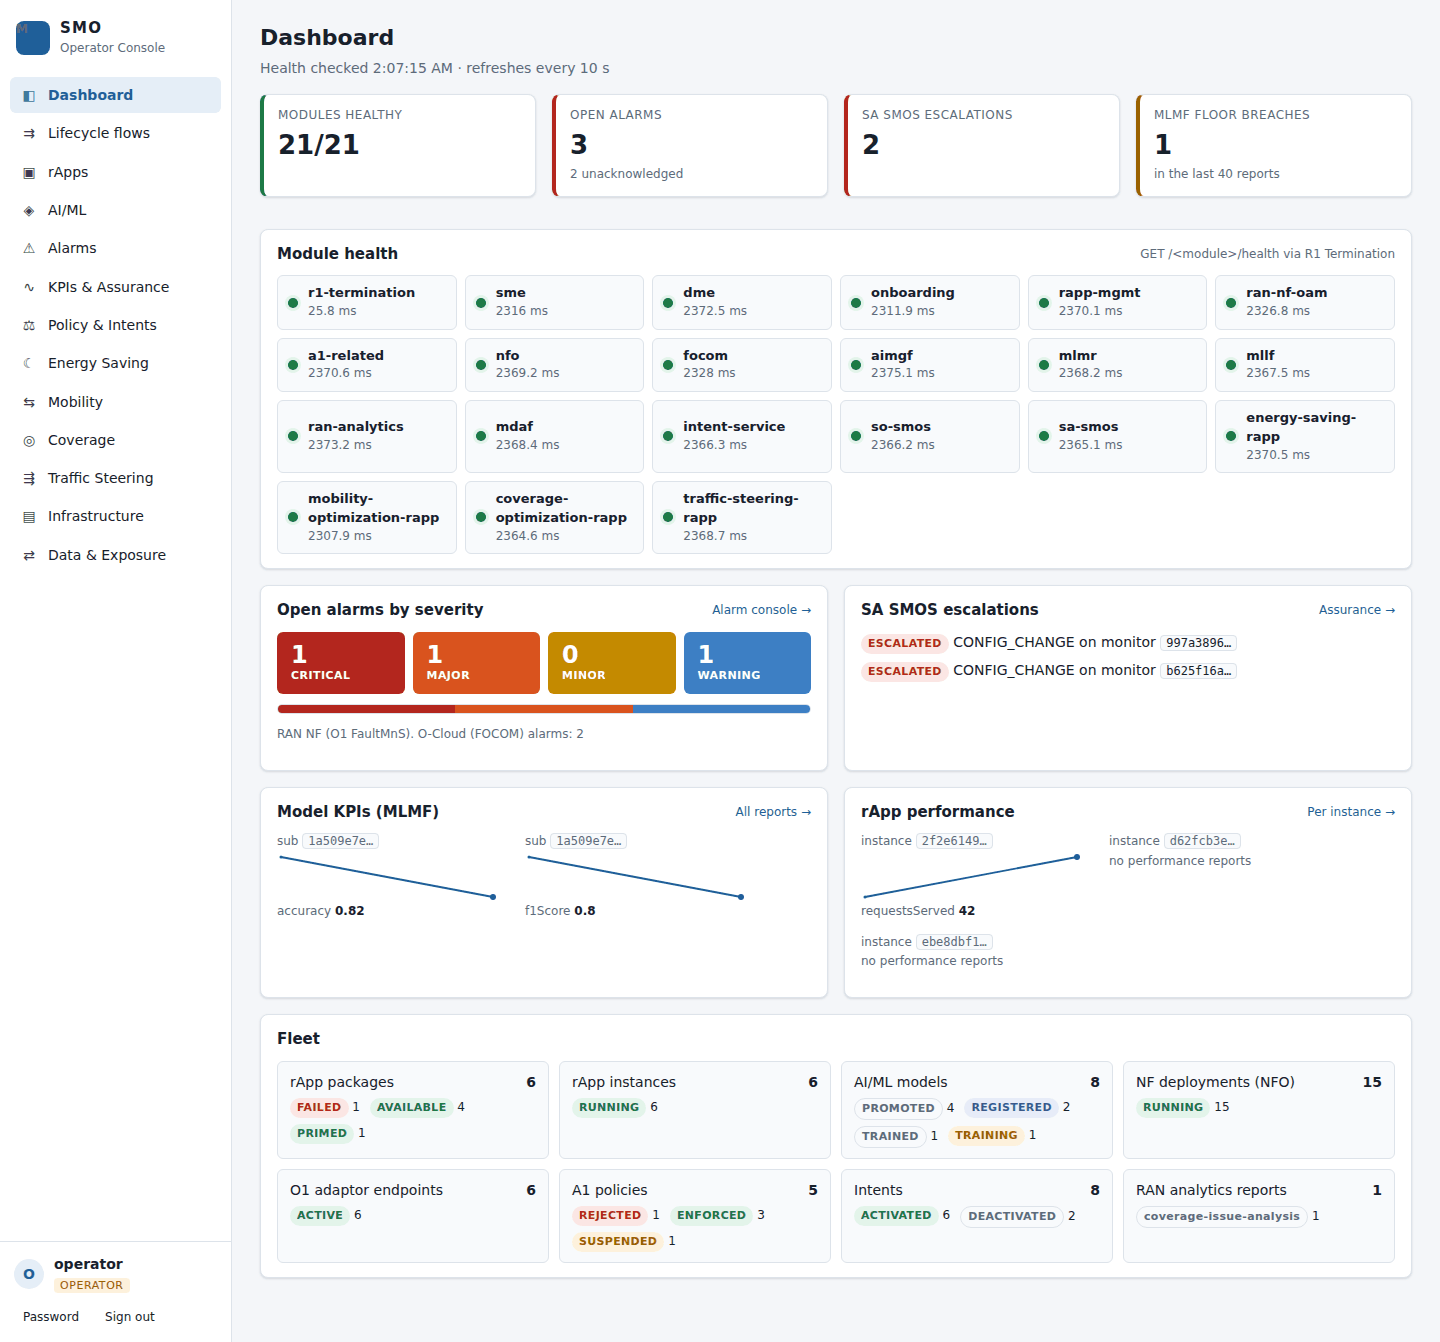
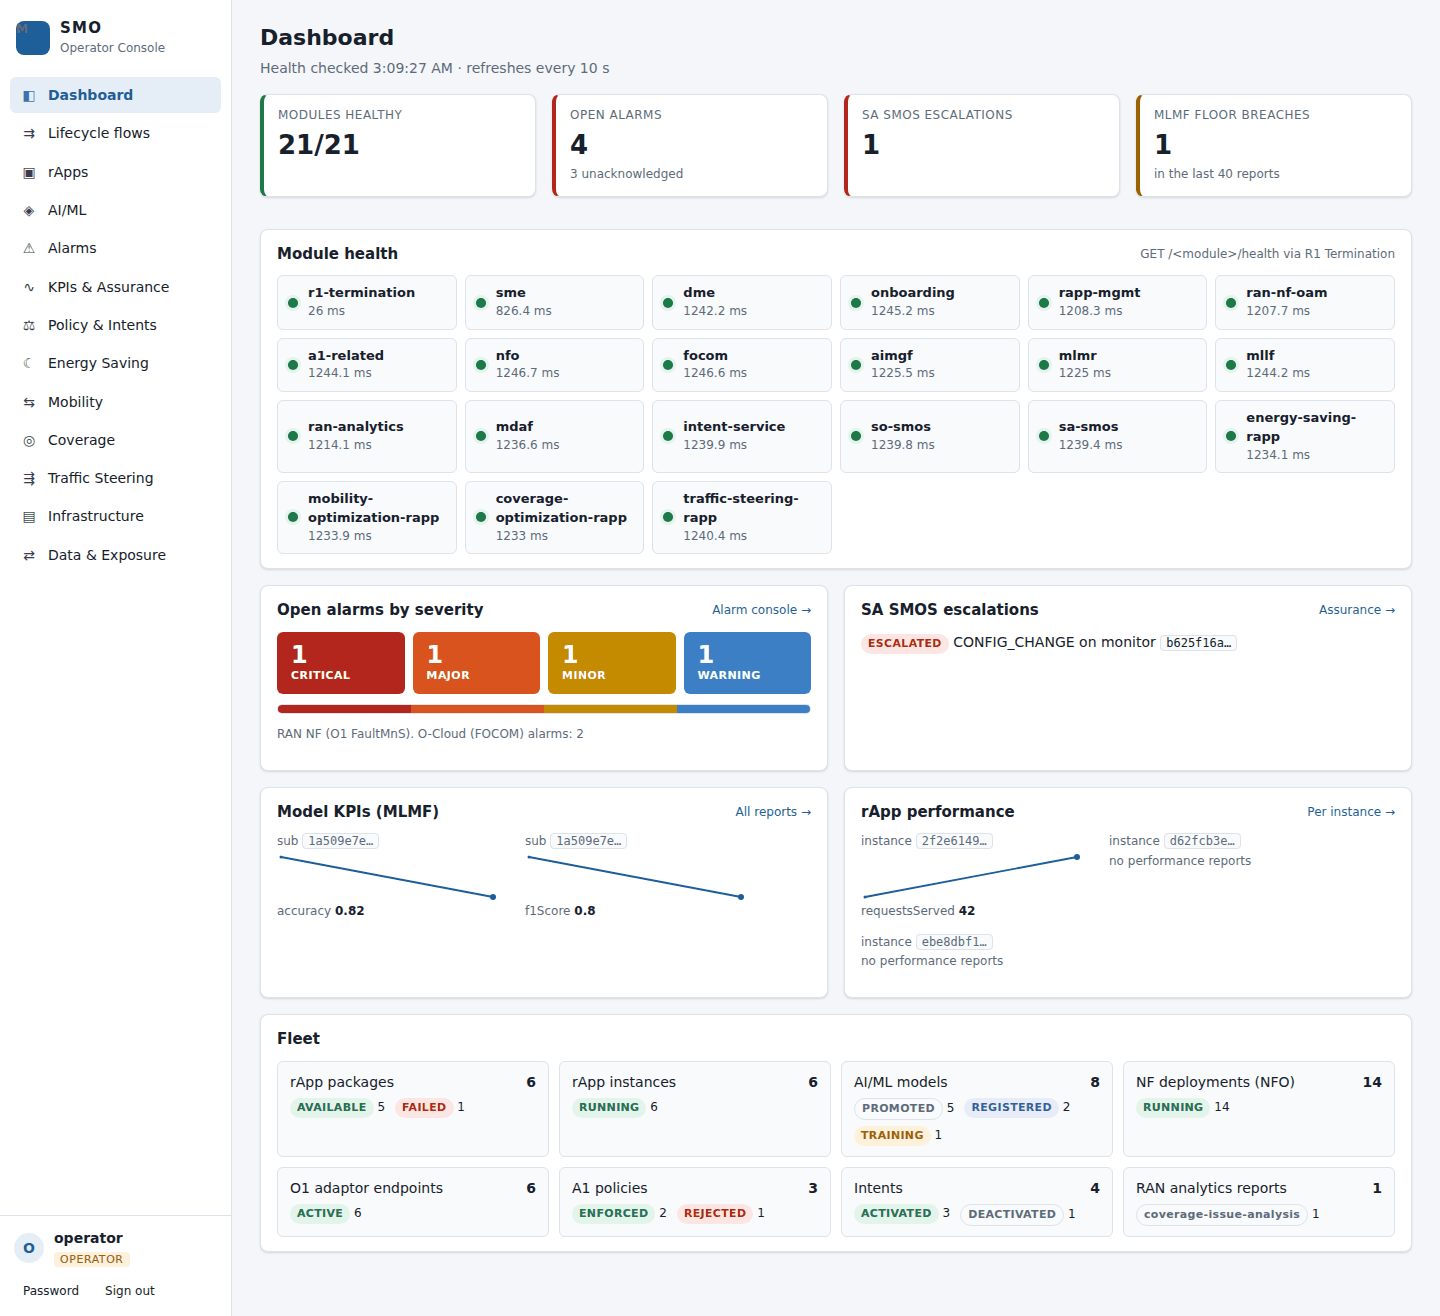
Add the missing GUI lifecycle screenshots; recapture the dashboards
Adds 33 screenshots: rApp upgrade, rollback, deprecate and delete; the model
governance gates through to a running runtime and inference; register
monitor, data job, CAPIF subscription, A1 service unregister, intent report,
inventory subscription, O1 health discovery, a RESTCONF write, and the
account lockout. Recaptures the three dashboards with the services started
without the sandbox's proxy variables, which had inflated module-health
latency. The README tables list every new shot.

Claude-Session: https://claude.ai/code/session_01H3VFBNwq3KascYw2zGafDC

diff --git a/smo/gui/README.md b/smo/gui/README.md
@@ -150,7 +150,8 @@ Captured by a Playwright walk-through of the full stack (every module, R1
 Termination, the BFF and the GUI, on Postgres), starting from an empty
 database. The state on screen is live: it was produced through the module
 APIs, the four reference-rApp demo scripts (`samples/*/demo.py`) and the GUI
-itself, signed in as `admin` at 1440 px wide, except the role views.
+itself, signed in as `admin` at 1440 px wide, except the role views. The
+walk-through finished with no 5xx responses from the GUI's own API.
 
 Lifecycle (LCM) screens are in the order the lifecycle runs, so a module's
 rows read as a story: the state before an action, then the state after it.
@@ -161,6 +162,7 @@ rows read as a story: the state before an action, then the state after it.
 |---|---|
 | [Sign in](docs/screenshots/generic/login.png) | The only page reachable signed out |
 | [Failed sign-in](docs/screenshots/generic/login-failed.png) | Wrong password: a generic error that does not say which half was wrong; 5 failures lock the account for 5 minutes |
+| [Account locked](docs/screenshots/generic/login-locked.png) | After 5 failed attempts the account is locked for 5 minutes; the message does not say whether the user exists |
 | [Dashboard](docs/screenshots/pages/dashboard.png) | Module health for every service, open alarms by severity, SA SMOS escalations, model KPIs, rApp performance and fleet counts |
 | [Lifecycle flows (list)](docs/screenshots/pages/flows.png) | The ten call-flow journeys; pick one, then the entity to follow |
 | [Change password](docs/screenshots/generic/change-password-dialog.png) | Any signed-in user, from the sidebar footer |
@@ -195,6 +197,8 @@ Each table: the page's tabs first, then the lifecycle screens for that module.
 | [Packages (tab)](docs/screenshots/pages/rapps-packages.png) | Onboarded packages with state, signature and NF descriptor; one FAILED, one PRIMED, the rest AVAILABLE |
 | [Instances (tab)](docs/screenshots/pages/rapps-instances.png) | rApp instances with state and autonomy mode (SHADOW, ASSIST, AUTONOMOUS) |
 | [Package: failed validation](docs/screenshots/lcm/rapps-package-failed.png) | A package that never became AVAILABLE; nothing to deploy, only Delete |
+| [Onboard a package](docs/screenshots/lcm/rapps-onboard-form.png) | The CSAR location form, filled but not submitted |
+| [Package: onboarded](docs/screenshots/lcm/rapps-package-onboarded.png) | A second version of a package, AVAILABLE after Onboarding validated it |
 | [Package: AVAILABLE](docs/screenshots/lcm/rapps-package-drawer.png) | TOSCA / ASD descriptor, SME declarations, artifacts, usage registrations, Prime |
 | [Package: PRIMED, deprime blocked](docs/screenshots/lcm/rapps-package-primed-deprime-blocked.png) | Deprime is disabled while two usage registrations are active, with the reason |
 | [Deploy dialog](docs/screenshots/lcm/rapps-deploy-dialog.png) | Instance configuration and autonomy mode, fixed for the instance's lifetime |
@@ -203,9 +207,16 @@ Each table: the page's tabs first, then the lifecycle screens for that module.
 | [Instance: recovering](docs/screenshots/lcm/rapps-instance-recovering.png) | Recover re-enters DEPLOYING until the rApp bootstraps again |
 | [Instance: RUNNING again](docs/screenshots/lcm/rapps-instance-recovered.png) | Marked bootstrapped; the fault history remains |
 | [Upgrade dialog](docs/screenshots/lcm/rapps-upgrade-dialog.png) | Pick an AVAILABLE package; the upgrade runs as two rows and is resolved success / failure |
+| [Upgrade: UPGRADING](docs/screenshots/lcm/rapps-upgrade-in-progress.png) | The instance waits for the replacement; resolve with Upgrade succeeded or Upgrade failed |
+| [Upgrade: replacement DEPLOYING](docs/screenshots/lcm/rapps-upgrade-replacement-deploying.png) | The replacement instance on the new package, awaiting its bootstrap |
+| [Upgrade: committed](docs/screenshots/lcm/rapps-upgrade-committed.png) | The replacement is RUNNING, the version history shows the UPGRADE and Roll back is offered |
+| [Rollback: UPGRADING](docs/screenshots/lcm/rapps-rollback-in-progress.png) | Roll back starts a replacement on the previous package and configuration |
+| [Rollback: committed](docs/screenshots/lcm/rapps-rollback-committed.png) | Version history now shows ROLLBACK, and the upgrade it undid is marked rolled back |
 | [Instance: UNDEPLOYED](docs/screenshots/lcm/rapps-instance-terminated.png) | After Terminate: NFO teardown and usage stop recorded under *Last teardown* |
 | [Package: PRIMED, usage released](docs/screenshots/lcm/rapps-package-primed-usage-released.png) | Both usage registrations stopped, so Deprime is enabled |
 | [Package: AVAILABLE again](docs/screenshots/lcm/rapps-package-deprimed.png) | Deprime succeeded (PRIMED → DEPRIMING → AVAILABLE) |
+| [Package: DEPRECATED](docs/screenshots/lcm/rapps-package-deprecated.png) | After Deprecate: no new instances; Restore and Delete remain |
+| [Package: DELETING](docs/screenshots/lcm/rapps-package-delete-requested.png) | Delete requested; the cascade-delete guard found no active usage |
 
 #### AI/ML (MLMR, AIMgF, MLLF)
 
@@ -220,6 +231,16 @@ Each table: the page's tabs first, then the lifecycle screens for that module.
 | [Register model](docs/screenshots/lcm/aiml-register-model-dialog.png) | Filled but not submitted |
 | [Model: TRAINING](docs/screenshots/lcm/aiml-model-training.png) | Pipeline stepper, training job in progress |
 | [Model: TRAINED, approval gate](docs/screenshots/lcm/aiml-model-trained-approval-gate.png) | After the training job finishes; an operator must approve before validation |
+| [Model: retrain requested](docs/screenshots/lcm/aiml-model-retrain-requested.png) | Retry training after a failed run starts a new training job |
+| [Model: VALIDATING](docs/screenshots/lcm/aiml-model-validating.png) | After the training approval and Request validation |
+| [Model: VALIDATED, approval gate](docs/screenshots/lcm/aiml-model-validated-approval-gate.png) | A second operator gate before emulation |
+| [Model: EMULATED](docs/screenshots/lcm/aiml-model-emulated-submit.png) | Submit for approval opens the governance steps |
+| [Model: PENDING_APPROVAL](docs/screenshots/lcm/aiml-model-pending-approval.png) | Approve or Reject |
+| [Model: CERTIFIED](docs/screenshots/lcm/aiml-model-certified.png) | Promote, Retrain or Deprecate |
+| [Model: PROMOTED](docs/screenshots/lcm/aiml-model-promoted-deploy-node-groups.png) | The Deploy to node groups field, filled |
+| [Deploy targets cleared](docs/screenshots/lcm/aiml-model-node-groups-cleared.png) | `clearedNodeGroups` stamped by MLLF |
+| [Runtime: DEPLOYED](docs/screenshots/lcm/aiml-model-runtime-deployed.png) | AIMgF and NFO deployed the runtime; Activate or Terminate |
+| [Runtime: ACTIVE](docs/screenshots/lcm/aiml-model-runtime-active-inference-requested.png) | An inference job RUNNING, with Completed / Failed to resolve it |
 | [Model: PROMOTED, runtime ACTIVE](docs/screenshots/lcm/aiml-model-promoted-runtime-active.png) | Cleared node groups, artifact, runtime actions, training and inference jobs |
 | [Write back model metrics](docs/screenshots/lcm/aiml-training-metrics-dialog.png) | What the trainer reports for a job; replaces the stored metrics |
 | [Inference jobs](docs/screenshots/lcm/aiml-inference-job-running.png) | COMPLETED and FAILED outcomes across models |
@@ -255,6 +276,8 @@ Each table: the page's tabs first, then the lifecycle screens for that module.
 | [Remedial action: RESOLVED](docs/screenshots/lcm/kpis-remedial-action-resolved.png) | `RECONNECT` executed against the order's NF deployment |
 | [Escalated to operator](docs/screenshots/lcm/kpis-escalated-to-operator.png) | Escalate with a reason; outcome ESCALATED |
 | [Group-scoped remediation](docs/screenshots/lcm/kpis-group-retrain-remediation.png) | Any action on a model-group monitor retrains the group |
+| [Register assurance monitor](docs/screenshots/lcm/kpis-register-monitor-form.png) | Scope picked from the SO SMOS orders, metric floors entered |
+| [Monitor registered](docs/screenshots/lcm/kpis-monitor-registered.png) | The new monitor listed with no actions yet |
 
 #### Policy & Intents (A1 Related, Intent Service)
 
@@ -270,9 +293,12 @@ Each table: the page's tabs first, then the lifecycle screens for that module.
 | [Policy: ENFORCED](docs/screenshots/lcm/policy-a1-created-enforced.png) | The new policy listed after the Near-RT RIC accepted it |
 | [Policy detail](docs/screenshots/lcm/policy-a1-drawer.png) | Policy object and enforcement status |
 | [Service keep-alive](docs/screenshots/lcm/policy-service-keepalive.png) | A supervised service after Keep alive, with its countdown |
+| [Service unregistered](docs/screenshots/lcm/policy-service-unregistered.png) | Unregister removes the service and deletes its policies |
 | [Create intent](docs/screenshots/lcm/policy-intent-create-form.png) | Handler, expectation object type, targets, priority and purpose |
 | [Intent: ACTIVATED](docs/screenshots/lcm/policy-intent-drawer.png) | Expectations and the handler's reports |
 | [Intent: DEACTIVATED](docs/screenshots/lcm/policy-intent-deactivated.png) | Admin state changed by the intent's own RMIO (`smo-gui`) |
+| [Publish an intent report](docs/screenshots/lcm/policy-intent-report-form.png) | The admin tool for acting as the handling RMIH |
+| [Intent report published](docs/screenshots/lcm/policy-intent-report-published.png) | The new fulfilment report appears first in the intent's reports |
 | [Autonomy: AWAITING_SCOPE](docs/screenshots/lcm/policy-autonomy-awaiting-scope.png) | An ASSIST instance waits for an operator to scope it, or reject it |
 | [Autonomy: resolved](docs/screenshots/lcm/policy-autonomy-resolved.png) | Scope supplied; an intent was created and the dispatch is DISPATCHED |
 
@@ -307,7 +333,11 @@ Each table: the page's tabs first, then the lifecycle screens for that module.
 | [NF deployment: ABNORMAL](docs/screenshots/lcm/nfo-runtime-failure-abnormal.png) | A deployment-manager `RUNTIME_FAILURE` with its reason |
 | [NF deployment: healed](docs/screenshots/lcm/nfo-healed-running.png) | Heal returns it to RUNNING |
 | [O-Cloud resource provisioned](docs/screenshots/lcm/ocloud-resource-provisioned.png) | A new resource in the pool, with Deprovision |
+| [Inventory-change subscription](docs/screenshots/lcm/ocloud-inventory-subscription-form.png) | Callback and resource type filter, filled |
+| [Subscription created](docs/screenshots/lcm/ocloud-inventory-subscription-created.png) | Notified on provision / deprovision of matching resources |
 | [Register O1 endpoint](docs/screenshots/lcm/o1-register-endpoint-dialog.png) | Managed element, adaptor URI, protocols, vendor |
+| [O1 health discovery](docs/screenshots/lcm/o1-health-discovery.png) | Run health discovery re-ages every endpoint's health |
+| [CM write to a RESTCONF ME](docs/screenshots/lcm/o1-cm-write-restconf-applied.png) | A RESTCONF managed element accepts the write; one sub-change APPLIED |
 | [New CM write](docs/screenshots/lcm/o1-cm-write-dialog.png) | Several managed elements, scope, operation, schema-checked changes |
 | [CM write submitted](docs/screenshots/lcm/o1-cm-write-submitted.png) | The new job in the list |
 | [CM job: PARTIAL_SUCCESS](docs/screenshots/lcm/o1-cm-job-partial-success.png) | Per-managed-element sub-changes: APPLIED and REJECTED |
@@ -324,10 +354,14 @@ Each table: the page's tabs first, then the lifecycle screens for that module.
 | [SME: services & invokers (tab)](docs/screenshots/pages/data-sme.png) | Providers, published APIs, invokers, discovery and CAPIF event subscriptions (one unscoped, one limited by `apiIds`) |
 | [DME offer: notify data ready](docs/screenshots/lcm/dme-offer-notify-data-ready.png) | The producer's availability signal for a committed offer |
 | [Register a producer data type](docs/screenshots/lcm/dme-register-type-form.png) | The admin tool for acting as a producer |
+| [Create a data job](docs/screenshots/lcm/dme-data-job-form.png) | Type, mode, delivery (limited to what an offer committed) and consumer |
+| [Data job](docs/screenshots/lcm/dme-data-job-dialog.png) | The created job's record |
 | [Register EI type](docs/screenshots/lcm/a1-ei-register-form.png) | Filled but not submitted |
 | [EI type registered](docs/screenshots/lcm/a1-ei-registered.png) | The new type listed with its DME type |
 | [SME invoker secret](docs/screenshots/lcm/sme-invoker-secret-dialog.png) | Shown once and never again; SME keeps only a hash |
 | [Trusted-invoker security context](docs/screenshots/lcm/sme-trusted-invoker-dialog.png) | AEF, API and preferred security method |
+| [CAPIF event subscription form](docs/screenshots/lcm/sme-event-subscription-form.png) | Subscriber, events and callback |
+| [CAPIF event subscription created](docs/screenshots/lcm/sme-event-subscription-created.png) | Listed under its subscriber |
 
 ### Role views
 
